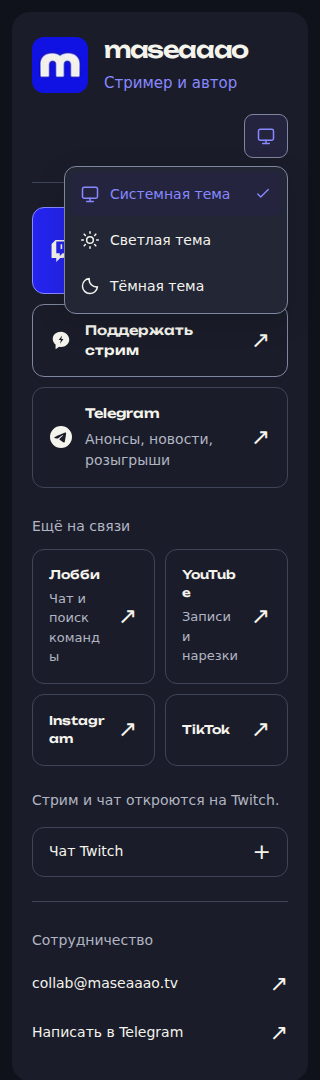
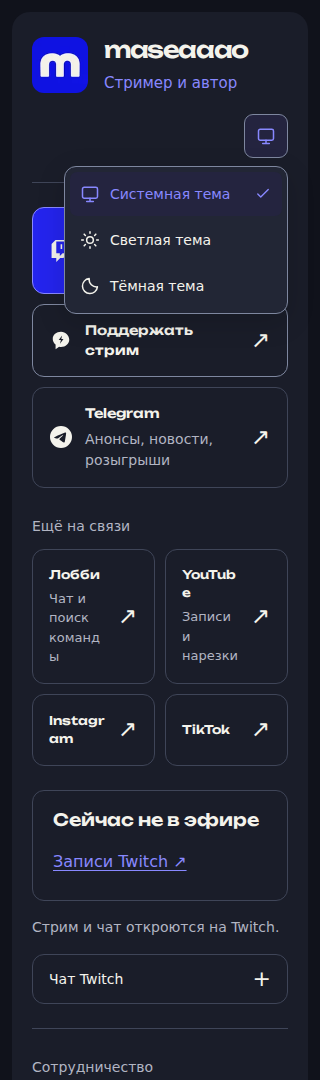
fix: restore desktop viewing columns and keep offline media visible

diff --git a/dist/assets/site.css b/dist/assets/site.css
@@ -5,7 +5,7 @@ h1, h2, h3 { font-family: var(--font-display); font-weight: 600; }
 a, button, summary { touch-action: manipulation; }
 a { color: var(--accent); text-underline-offset: .2em; }
 a:focus-visible, button:focus-visible, summary:focus-visible, [tabindex="-1"]:focus-visible { outline: 3px solid var(--accent); outline-offset: 4px; }
-.page { min-height: 100svh; padding: 56px 32px; display: grid; place-items: center; }
+.page { min-height: 100svh; padding: 56px 32px; display: grid; place-items: start center; }
 .shell { width: min(1240px, 100%); min-width: 0; padding: clamp(24px, 4.5vw, 64px); border-radius: 24px; background: var(--surface); display: grid; grid-template-columns: minmax(0, 1fr); grid-template-areas: "identity" "actions" "stream" "collab"; gap: 32px 40px; align-items: start; }
 .identity { grid-area: identity; padding-bottom: 32px; border-bottom: 1px solid var(--line); }
 .identity__top { display: flex; align-items: center; gap: 24px; }
@@ -22,6 +22,9 @@ a:focus-visible, button:focus-visible, summary:focus-visible, [tabindex="-1"]:fo
 .live-badge__dot { width: 7px; height: 7px; border-radius: 50%; background: currentColor; }
 .stream-layout, .stream-content { display: grid; min-width: 0; gap: 16px; }
 .stream-content { container-type: inline-size; container-name: twitch-content; }
+.stream-status-bar { display: flex; min-height: 44px; align-items: center; justify-content: space-between; gap: 8px 20px; }
+.stream-status-bar:has(.stream-status[hidden]) { display: none; }
+.stream-archives { display: none; flex: none; min-height: 44px; align-items: center; font-size: 14px; }
 .stream-status { margin: 0; color: var(--dim); font-size: 14px; }
 .stream-player { min-width: 0; }
 .twitch-player { width: 100%; aspect-ratio: 16 / 9; min-height: 300px; border-radius: 12px; border: 1px solid var(--line); background: #20201e; overflow: hidden; }
@@ -44,7 +47,6 @@ a:focus-visible, button:focus-visible, summary:focus-visible, [tabindex="-1"]:fo
 .stream-chat .stream-fallback { padding: 8px 16px 16px; }
 .stream-fallback a { display: inline-flex; align-items: center; min-height: 44px; }
 .stream-layout { grid-area: stream; grid-template-columns: minmax(0, 1.15fr) minmax(0, 1fr); align-items: start; }
-.stream-layout:is([data-state="offline"], [data-state="error"]) { grid-template-columns: minmax(0, 1fr); }
 .actions { grid-area: actions; display: grid; grid-template-columns: minmax(0, 1.15fr) minmax(0, 1fr); min-width: 0; gap: 28px 40px; align-items: start; }
 .section { min-width: 0; display: grid; gap: 12px; }
 .section-label, .collab__label { margin: 0; color: var(--dim); font: 14px/1.5 var(--font-body); }
@@ -117,6 +119,12 @@ a:focus-visible, button:focus-visible, summary:focus-visible, [tabindex="-1"]:fo
 .skip-links a { position: fixed; top: 12px; left: 12px; z-index: 10; transform: translateY(-200%); padding: 12px 16px; border: 2px solid var(--accent); border-radius: 8px; background: var(--surface); }
 .skip-links a:focus { transform: none; }
 #platform-links, #contacts { scroll-margin-top: 24px; }
+/* Stable desktop columns: profile and media on the left, actions on the right. */
+@media (min-width: 1101px) {
+  .shell { grid-template-columns: minmax(0, 1fr) 300px; grid-template-areas: "identity actions" "stream actions" "collab collab"; }
+  .actions, .stream-layout { grid-template-columns: minmax(0, 1fr); }
+}
+@media (min-width: 651px) { .stream-layout[data-state="offline"] .stream-archives { display: inline-flex; } }
 @media (max-width: 1000px) { .page { padding: 24px 16px; } .shell { gap: 28px; padding: 32px; } .actions, .stream-layout { grid-template-columns: minmax(0, 1fr); } .collab { grid-template-columns: 1fr; gap: 8px; } .identity { padding-bottom: 24px; } .tiles--primary { grid-template-columns: repeat(2, minmax(0, 1fr)); } .tile--wide { grid-column: 1 / -1; } .tiles--primary .tile { padding: 16px; gap: 12px; } }
 @media (max-width: 540px) { .page { padding: 12px; } .shell { padding: 24px 20px; border-radius: 18px; gap: 24px; } .identity__top { gap: 16px; } .avatar-frame { width: 56px; height: 56px; border-radius: 12px; } .identity h1 { font-size: clamp(23px, 6.6vw, 34px); letter-spacing: -.06em; } .identity__description { margin-top: 8px; font-size: 15px; } .tiles--primary { grid-template-columns: 1fr; } .tile--wide { grid-column: auto; } .tile { min-height: 72px; padding: 16px; } .tile__title { font-size: 13px; } .collab__links { grid-template-columns: 1fr; gap: 0; } .checker { padding: 20px 12px; } .checker .card-header { padding: 16px; } .docs { padding: 28px 20px; } }
 @container twitch-content (width < 402px) { .stream-player { display: none; } .stream-mobile { display: block; } .stream-content > .stream-fallback { display: none; } }

diff --git a/dist/assets/stream.js b/dist/assets/stream.js
@@ -83,7 +83,7 @@
   playerSummary.addEventListener("click", () => {
     playerPreference = !playerDetails.open;
   });
-  desktop.addEventListener("change", updateChat);
+  desktop.addEventListener("change", render);
 
   function attemptPlayback() {
     if (!ready || failed || status !== "online" || !canEmbed() || playbackRequested) return;
@@ -107,13 +107,14 @@
     const wide = canEmbed();
     layout.dataset.state = status;
     badge.hidden = status !== "online";
-    offline.hidden = status !== "offline";
-    statusText.hidden = status === "offline" || (status === "loading" && !wide);
+    offline.hidden = status !== "offline" || desktop.matches;
+    statusText.hidden = (status === "offline" && !desktop.matches) || (status === "loading" && !wide);
     statusText.textContent = status === "online"
       ? (blocked ? "Эфир идёт. Нажми ▶ в плеере, чтобы начать просмотр." : "Сейчас в эфире")
-      : (status === "error" ? "Не удалось определить статус эфира. Можно открыть плеер или перейти на Twitch." : "Проверяем эфир…");
-    playerSummary.hidden = status !== "offline";
-    playerDetails.open = wide && (status !== "offline" || playerPreference);
+      : status === "offline" ? "Сейчас не в эфире"
+      : (status === "error" ? "Не удалось определить статус эфира. Плеер доступен ниже." : "Проверяем эфир…");
+    playerSummary.hidden = desktop.matches || status !== "offline";
+    playerDetails.open = wide && (desktop.matches || status !== "offline" || playerPreference);
     fallback.hidden = status !== "error";
     updateChat();
     attemptPlayback();

diff --git a/dist/index.html b/dist/index.html
@@ -61,7 +61,7 @@
     <link rel="stylesheet" href="assets/brand.css" />
     <link rel="stylesheet" href="assets/site.css" />
     <link rel="stylesheet" href="assets/theme.css" />
-    <noscript><style>.stream-status{display:none}</style></noscript>
+    <noscript><style>.stream-status-bar{display:none}</style></noscript>
     <script type="application/ld+json">
       {
         "@context": "https://schema.org",
@@ -257,7 +257,10 @@
         <section class="stream-layout" aria-labelledby="stream-title" data-stream-layout>
           <div class="stream-content">
             <h2 id="stream-title" class="sr-only">Трансляция Twitch</h2>
-            <p class="stream-status" role="status" aria-live="polite" data-stream-status>Проверяем эфир…</p>
+            <div class="stream-status-bar">
+              <p class="stream-status" role="status" aria-live="polite" data-stream-status>Проверяем эфир…</p>
+              <a class="stream-archives" href="https://www.twitch.tv/maseaaao/videos" target="_blank" aria-describedby="new-window-note" rel="noopener noreferrer">Записи Twitch ↗</a>
+            </div>
             <div class="stream-offline" data-stream-offline hidden>
               <p class="stream-offline__title">Сейчас не в эфире</p>
               <div class="stream-offline__links">

diff --git a/docs/screenshots/README.md b/docs/screenshots/README.md
@@ -1,39 +1,30 @@
 # Interface previews
 
-Captured from the current source with Chromium 153 at 1440 px (desktop) and
-390 px (mobile), with reduced motion and the current blue m avatar.
+Current previews use Chromium 153 with local fonts and the approved blue avatar.
+The wide desktop layout places profile/player/chat on the left and links on the
+right. Desktop player and chat remain visible even when the channel is offline.
 
-- `landing-desktop.png`: isolated offline state, chat manually collapsed.
-- `landing-mobile.png`: cold narrow-page load; the embedded player is deliberately
-  replaced by the existing external Twitch action below the minimum player width.
+- `landing-desktop.png`, `landing-light-1440.png`, `landing-dark-1440.png`: offline
+  desktop with the player and chat open by default.
+- `landing-online-{light,dark}-1440.png`: online desktop with the same geometry.
+- `landing-mobile.png`, `landing-light-390.png`, `landing-dark-390.png`: compact
+  layout; below Twitch's minimum player width, the external action remains.
+- `theme-menu-{light,dark}-{width}.png`: expanded theme menu at 1440px and 320px.
 
-Twitch SDK and iframe networking are isolated. These are interface previews,
-not evidence of an actual live broadcast or a working external media connection.
+All Twitch SDK/iframe networking is isolated. Placeholder text in the player and
+chat identifies the test responses. These images establish layout behavior, not
+real Twitch connectivity or playback.
 
-Run all site/OBS checks with `npm test`. Run `npm run browser:install` after `npm ci`, or set `CHROME_BIN` or
-`CHROME_PATH` to an existing Chromium executable.
-The suite includes Checker actions/TV layout, docs/check responsive and enlarged
-text checks, banner/panel clipping, landing states/keyboard/contrast and OBS
-transparency/geometry/QR/pixel parity.
+Run site/OBS regression checks with `npm test`. After `npm ci`, install Chromium
+with `npm run browser:install`, or set `CHROME_BIN` / `CHROME_PATH` to an existing
+browser. See `../layout.md` for responsive/media behavior and `../themes.md` for
+palette, contrast and theme controls.
 
-To capture the landing matrix in a new directory, run:
+For a fresh state/viewport evidence directory:
 
 ```sh
 CHROME_BIN=/path/to/chromium LANDING_AUDIT_OUT=/new/evidence-directory node --test --test-name-pattern='capture real Chromium' tests/landing-sync.test.mjs
 ```
 
-The desktop preview comes from `offline-desktop-chat-closed.png`; the mobile
-preview comes from `cold-mobile-390.png`. The capture also writes measurements
-and isolated network conditions to `browser-evidence.json`.
-
-
-## Theme comparisons
-
-The `*-light-*.png` and `*-dark-*.png` images show the same UI with automatic
-light/dark system preferences in Chromium 153. Site previews: 390/1440px with
-isolated offline Twitch and manually collapsed chat. Dock: 390/1200px in demo
-mode; `settings-light.png` and `settings-dark.png` show the settings dialog.
-See `../themes.md` for palette, measured contrast and behavior.
-
-`theme-menu-{light,dark}-{width}.png` shows the single-button dropdown expanded
-at desktop and 320px widths; the standard comparison screenshots show it closed.
+That optional audit also captures a manually collapsed desktop chat to verify
+that user choice still works; it is not the default layout.

diff --git a/docs/layout.md b/docs/layout.md
@@ -1,0 +1,35 @@
+# Desktop viewing layout
+
+Wide viewports (1101px and above) use two stable columns: profile, player and
+chat on the left; a 300px column of platform/support links on the right. Contacts
+span the bottom. Compact layouts retain the sequential profile → links → media
+order. CSS controls this layout without detecting bots or full-screen APIs.
+
+On nonmobile viewports (651px and above), the player and chat are open by default
+in loading, online, offline and error states. Offline leaves the native Twitch
+player visible; the status row retains the archive shortcut without replacing
+the player with a card. Status changes preserve the frame nodes and geometry.
+Users can collapse chat; their choice survives status updates and resizing.
+
+The status row reserves 44px so switching its message or showing the archive
+shortcut does not shift media. Player initialization still requires at least
+402px of container width (400px inside the two borders), and the frame has a
+300px minimum height. Below that width the external Twitch action remains.
+Cold mobile loads keep chat collapsed and do not load its iframe until expanded.
+
+The layout has the same behavior for visitors and crawlers. Profile text, links,
+canonical/structured metadata and the real fallback iframe remain in source HTML.
+The work adds no framework, dependency, timer or user-agent detection.
+
+## Verification
+
+Chromium 153: both themes, online/offline/SDK error, 12 viewport widths from
+320px through 1920px, including both sides of the 1100/1101px layout breakpoint.
+Checked visible text contrast, horizontal overflow, default media visibility,
+Twitch minimum dimensions and the theme dropdown bounds (72 combinations).
+The suite also checks stable link/video positions, retained iframe nodes,
+keyboard controls, manual chat choices, 200% text and viewport defaults when the
+player column itself does not resize.
+
+Twitch SDK and iframe requests were isolated with test responses. The previews
+show that isolated content, not an actual broadcast or real chat session.
